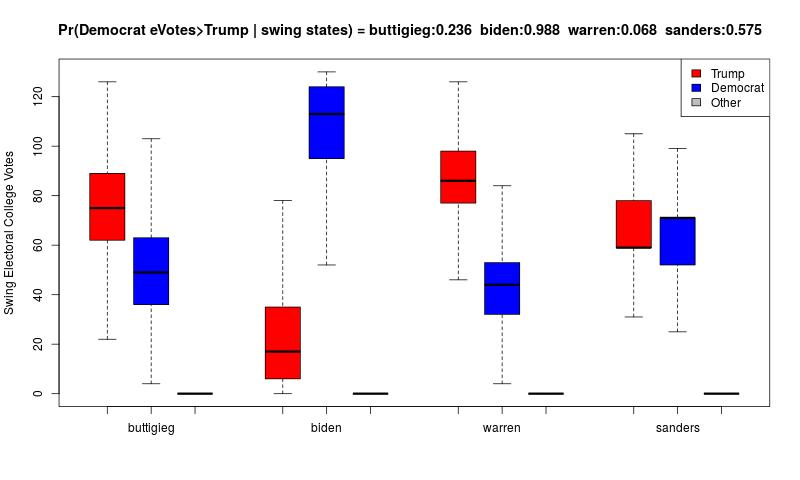
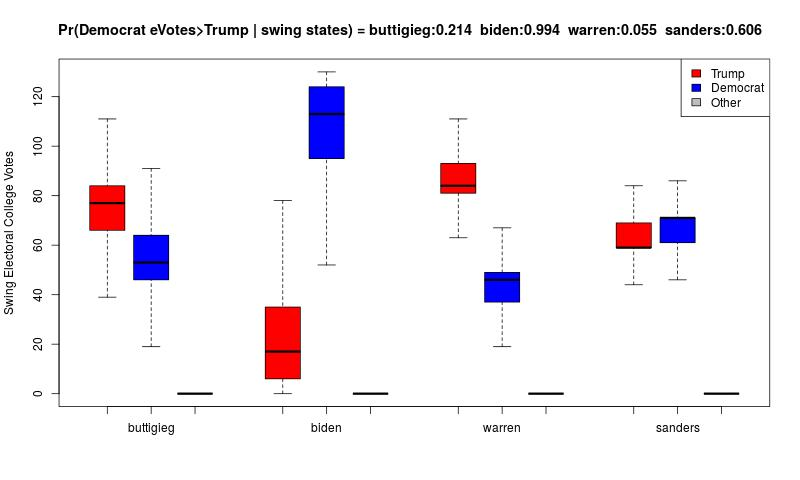
added recent Florida, Mich., PA, and Wis. polls

diff --git a/README.md b/README.md
@@ -80,20 +80,14 @@ recent quality poll exists in a state, I aggregate those polls by adding their
 sample sizes and I compute a weighted averaging of their proportions based on 
 their relative sample sizes.  
 
-Currently Pennsylvania and Arizona do not have recent, and high quality, polls. 
-Furthermore, the polls that do exists for these states exclude Buttigieg from 
-polling. Until new polls exist in these states I am forced to loosen the standard
-for poll inclusion. For these states I extend poll inclusion to polls that are 
-up to four months old and lower the pollster standard to at least a B- rating. 
-I fill in Buttigeig's poll numbers, in missing cases, by filling in his 
-average among all other swing states, with a sample size of one.  This has the 
-effect of increasing uncertainty about Buttigieg without swaying his mean 
-performance. 
-<!--
-I also extend this lowered standard to Florida since it's behavior
-is volatile in the hopes that this will include more polls to smooth out its wild 
-behavior from poll to poll.
--->
+Some states (right now just Arizona) do not have recent, and high quality, polls. 
+Furthermore, the polls that do exists for these states exclude some candiates. 
+Until new polls exist in these states I loosen the standard for poll inclusion
+in these states. For these states I extend poll inclusion to polls that are up 
+to four months old and lower the pollster standard to at least a B- rating. I 
+fill in missing candidate's poll numbers by filling in the average among all 
+other swing states, with a sample size of one. This has the effect of increasing 
+uncertainty about Buttigieg without swaying his mean performance. 
 
 # A Measure of Success
 
@@ -128,7 +122,7 @@ judge the election outcome.
 Again I would like to add Minnesota and Ohio pending decent polls in these 
 states. Since I do not have such polls, I opted to leave them out of the 
 forecast entirely. Further I have left out the 2nd Districts of Nebraska and 
-Maine. In total, this analysis leaves 61 electoral college votes unaccounted for. I 
+Maine. In total, this analysis leaves 30 electoral college votes unaccounted for. I 
 figure it is less misleading to obviously exclude them from the analysis than to make 
 a poorly informed guess about their outcome. Thus this lowers the effictive threshold 
 for the minimum number of electoral college votes need to win to 254. 
